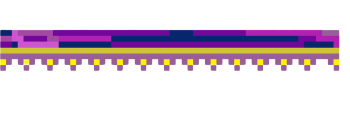
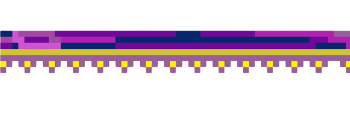
Fix shelf

Changed region(s): [[0.0, 0.2269, 1.0, 0.605], [0.0571, 0.3025, 0.0857, 0.3529]]

diff --git a/src/World/Circuis.java b/src/World/Circuis.java
@@ -23,7 +23,7 @@ public class Circuis implements World {
         moving.add(new ImageObject(0,0,"Assets\\pie_blue.png"));
         moving.add(new ImageObject(50,0,"Assets\\plate_Blue.png"));
         constant.add(new ImageObject(0,30,"Assets\\shelf.png"));
-        constant.add(new ImageObject(745,30,"Assets\\shelf.png"));
+        constant.add(new ImageObject(800,30,"Assets\\shelf.png"));
     }
     @Override
     public List<GameObject> getConstantObjects() {
